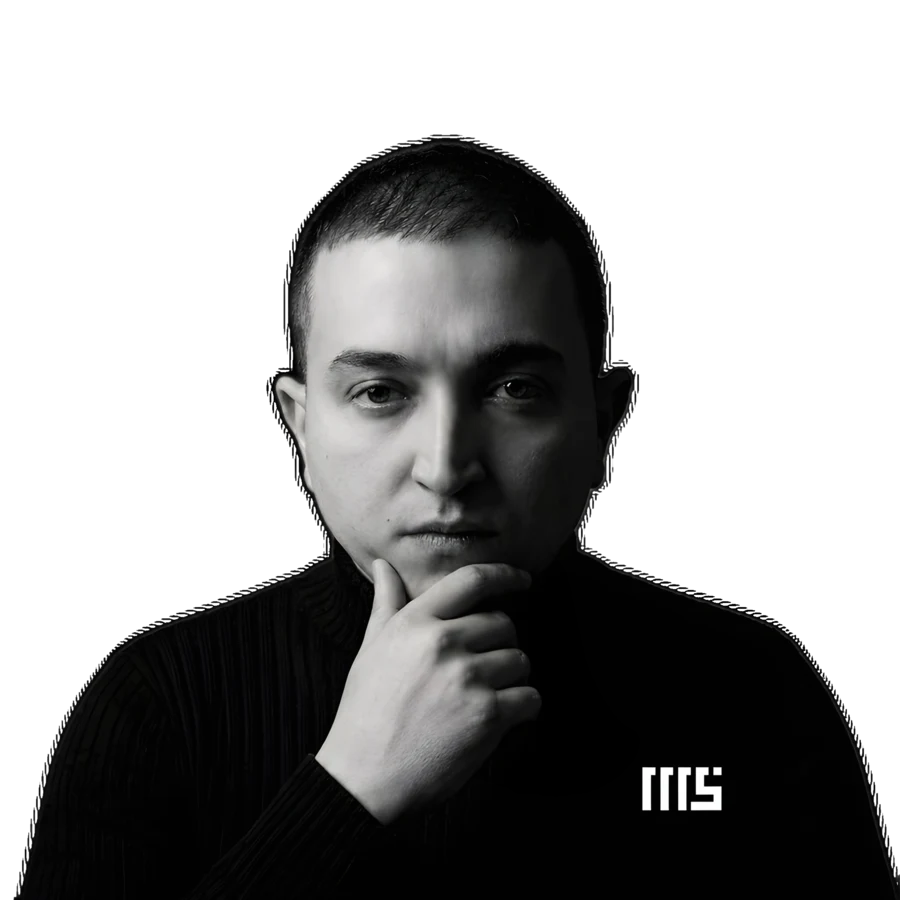
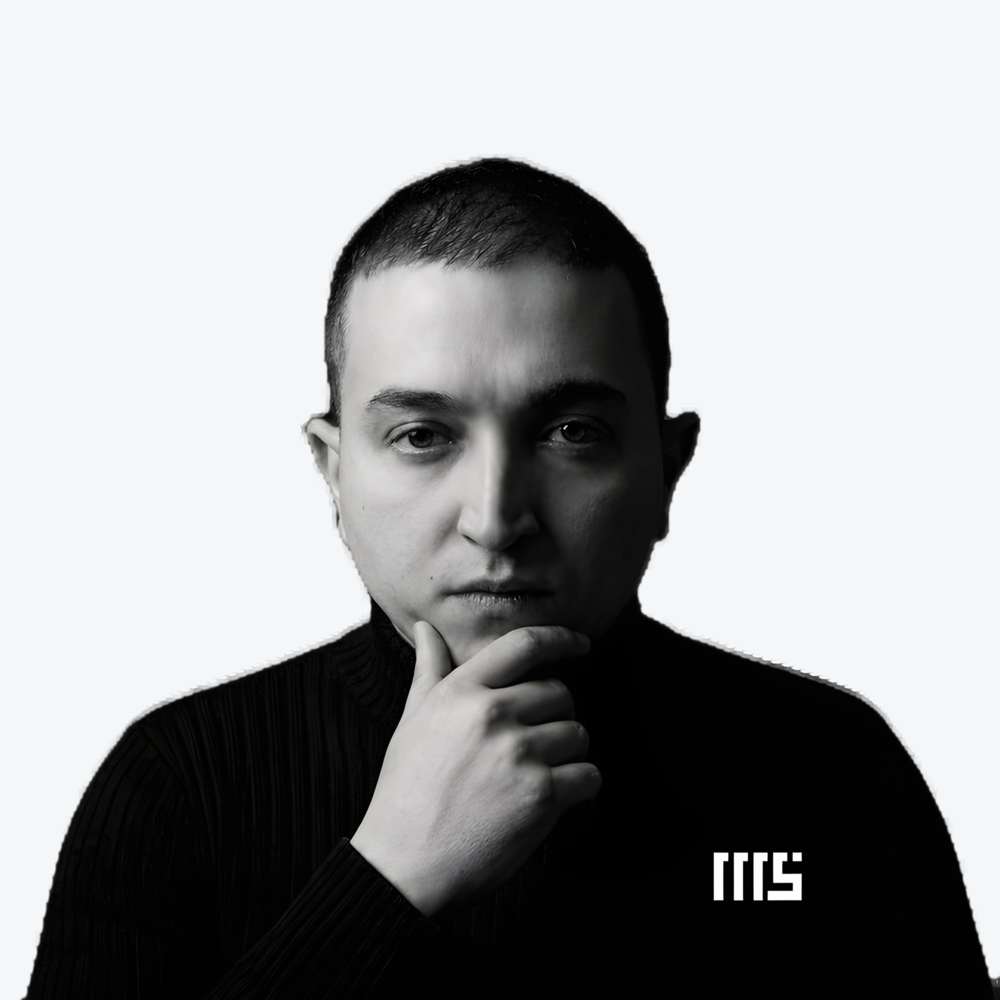
Improve portrait display by removing white halo and artifacts
Adjust mask styling and update portrait image to resolve visual artifacts and white halo effects on the hero section.

Replit-Commit-Author: Agent
Replit-Commit-Session-Id: 6379cf23-add1-42f1-bb63-95ab1cc3139b
Replit-Commit-Checkpoint-Type: full_checkpoint
Replit-Commit-Event-Id: 012d61d2-2114-4e1e-ad5f-6ae9c5180d01
Replit-Commit-Screenshot-Url: https://storage.googleapis.com/screenshot-production-us-central1/06f075d8-1028-4f63-b10f-f02a67b6145b/6379cf23-add1-42f1-bb63-95ab1cc3139b/n2CjzHo
Replit-Helium-Checkpoint-Created: true

diff --git a/client/src/pages/home.tsx b/client/src/pages/home.tsx
@@ -266,8 +266,8 @@ export default function Home() {
               height={900}
               className="absolute inset-0 w-full h-full object-cover"
               style={{
-                maskImage: 'radial-gradient(ellipse 85% 95% at 50% 35%, black 65%, rgba(0,0,0,0.3) 100%)',
-                WebkitMaskImage: 'radial-gradient(ellipse 85% 95% at 50% 35%, black 65%, rgba(0,0,0,0.3) 100%)',
+                maskImage: 'radial-gradient(ellipse 90% 100% at 50% 35%, black 75%, transparent 100%)',
+                WebkitMaskImage: 'radial-gradient(ellipse 90% 100% at 50% 35%, black 75%, transparent 100%)',
               }}
               data-testid="img-hero-portrait"
             />
